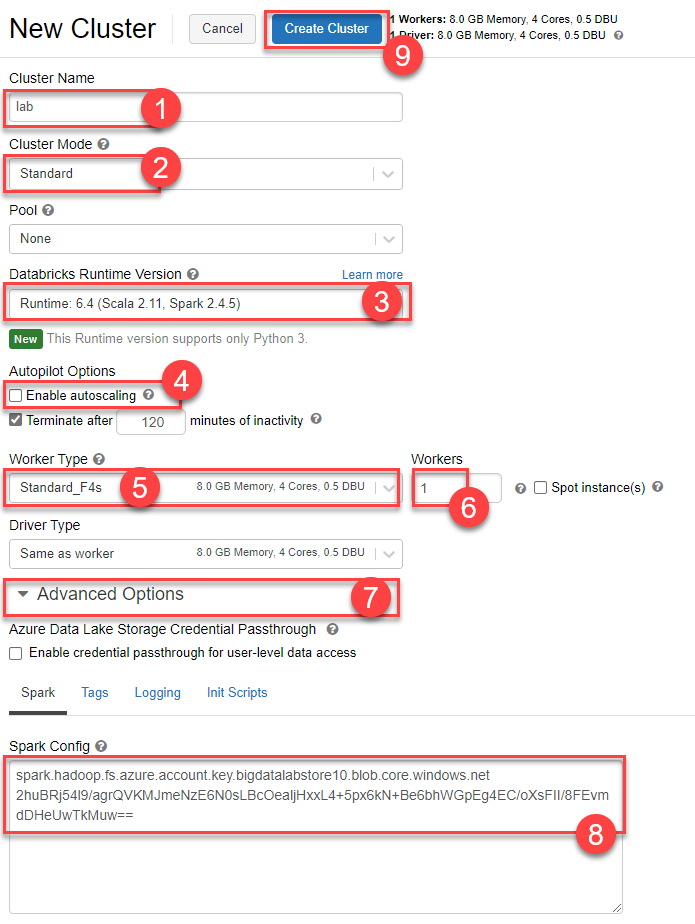
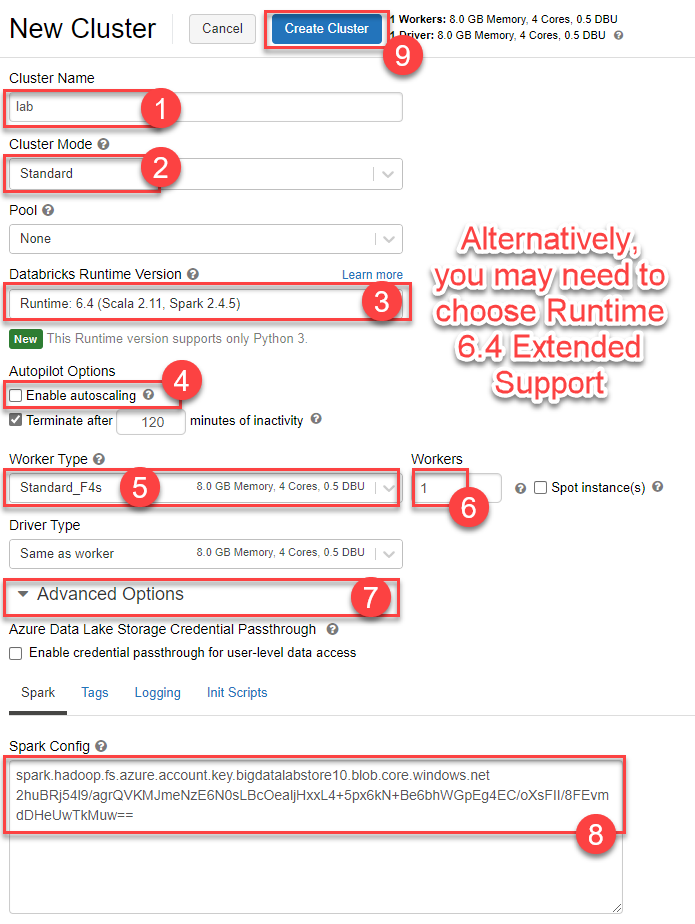
Responded to issue #92.

Changed region(s): [[0.6043, 0.2424, 0.9669, 0.4545]]

diff --git a/Hands-on lab/HOL step-by-step - Big data and visualization.md b/Hands-on lab/HOL step-by-step - Big data and visualization.md
@@ -146,7 +146,7 @@ You have provisioned an Azure Databricks workspace, and now you need to create a
 
    - **Pool**: Select **None**
 
-   - **Databricks Runtime Version (3)**: **Runtime: 6.4 (Scala 2.11, Spark 2.4.5)** (**Note**: the runtime version CANNOT be > 6.6, due to compatibility issues with the supplied notebooks.)
+   - **Databricks Runtime Version (3)**: **Runtime: 6.4 Extended Support (Scala 2.11, Spark 2.4.5)** (**Note**: the runtime version CANNOT be > 6.6, due to compatibility issues with the supplied notebooks.)
 
    - **Enable Autoscaling (4)**: **Uncheck** this option.
 
@@ -365,17 +365,21 @@ In this exercise, you will create a baseline environment for Azure Data Factory 
 
     ![The Microsoft Integration Runtime Configuration Manager New Integration Runtime (Self-hosted) Node page displays with a Finish button.](media/adf-ir-self-hosted-node.png 'Microsoft Integration Runtime Configuration Manager')
 
-15. You will then get a screen with a confirmation message. Select the **Launch Configuration Manager** button to view the connection details.
+15. Depending on your version of the Integration Runtime, you will be asked to specify a backup file. Select **Skip** and **OK**.
+
+   ![The Integration Runtime Configuration Manager requests a backup credentials. Configuring backup settings is unncessary for this lab.](./media/skip_ir_backup.png 'Skipping Integration Runtime backup settings')
+
+16. You will then get a screen with a confirmation message. Select the **Launch Configuration Manager** button to view the connection details.
 
     ![The Microsoft Integration Runtime Configuration Manager Indicates the Integration Runtime (Self-hosted) node has been successfully registered. The Launch Configuration Manager button is highlighted.](media/adf-ir-launch-config-manager.png 'Microsoft Integration Runtime Configuration Manager')
 
     ![The Microsoft Integration Runtime Configuration Manager indicates the Self-hosted note is connected to the cloud service.](media/adf-ir-config-manager.png 'Microsoft Integration Runtime Configuration Manager')
 
-16. You can now return to the Azure Data Factory page and view the Integration Runtime you just configured. You may need to select **Refresh** to view the Running status for the IR.
+17. You can now return to the Azure Data Factory page and view the Integration Runtime you just configured. You may need to select **Refresh** to view the Running status for the IR.
 
     ![In the Connections tab in Azure Data Factory, the Integration runtimes tab is selected, and the integration runtime bigdatagateway-initials is shown in the list.](media/adf-ir-running.png 'Integration Runtime in running state')
 
-17. Select the Azure Data Factory Overview button on the menu. Leave this open for the next exercise.
+18. Select the Azure Data Factory Overview button on the menu. Leave this open for the next exercise.
 
     ![The Azure Data Factory Overview button is selected from the left menu.](media/adf-overview.png 'ADF Overview')
 

diff --git a/Hands-on lab/Before the HOL - Big data and visualization.md b/Hands-on lab/Before the HOL - Big data and visualization.md
@@ -114,6 +114,8 @@ Create a new Azure Storage account that will be used to store historic and score
 
    ![The Azure storage account creation form is filled out with values as outlined above.](media/azure-storage-create-blade.png 'Storage Account Creation')
 
+   >**Note**: There may be changes in the Azure UI. If you do not see the option to provision **RA-GRS** replication, choose **GRS** and select **Make read access to data available in the event of regional unavailability**. You may also not have the option to select the storage account type.
+
 4. Select **Review + create (8)**.
 
 5. Wait for validation to pass, then select **Create**.
@@ -183,7 +185,7 @@ Power BI desktop is required to connect to your Azure Databricks environment whe
 
 An integration runtime agent for Azure Data Factory will need to be installed on your hardware for the hands-on lab. Since you will need to provide your user credentials, we suggest you provision an Azure VM to act as your "on-premises" hardware.
 
-1. In the [Azure Portal](https://portal.azure.com) (<https://portal.azure.com>), select **Create a resource** within the portal menu, then type "Data Factory" into the search bar.
+1. In the [Azure Portal](https://portal.azure.com) (<https://portal.azure.com>), select **Create a resource** within the portal menu.
 
    ![The Create a resource item is selected from the Azure portal page](media/azure-portal-create-resource.png 'Create Resource')
 
